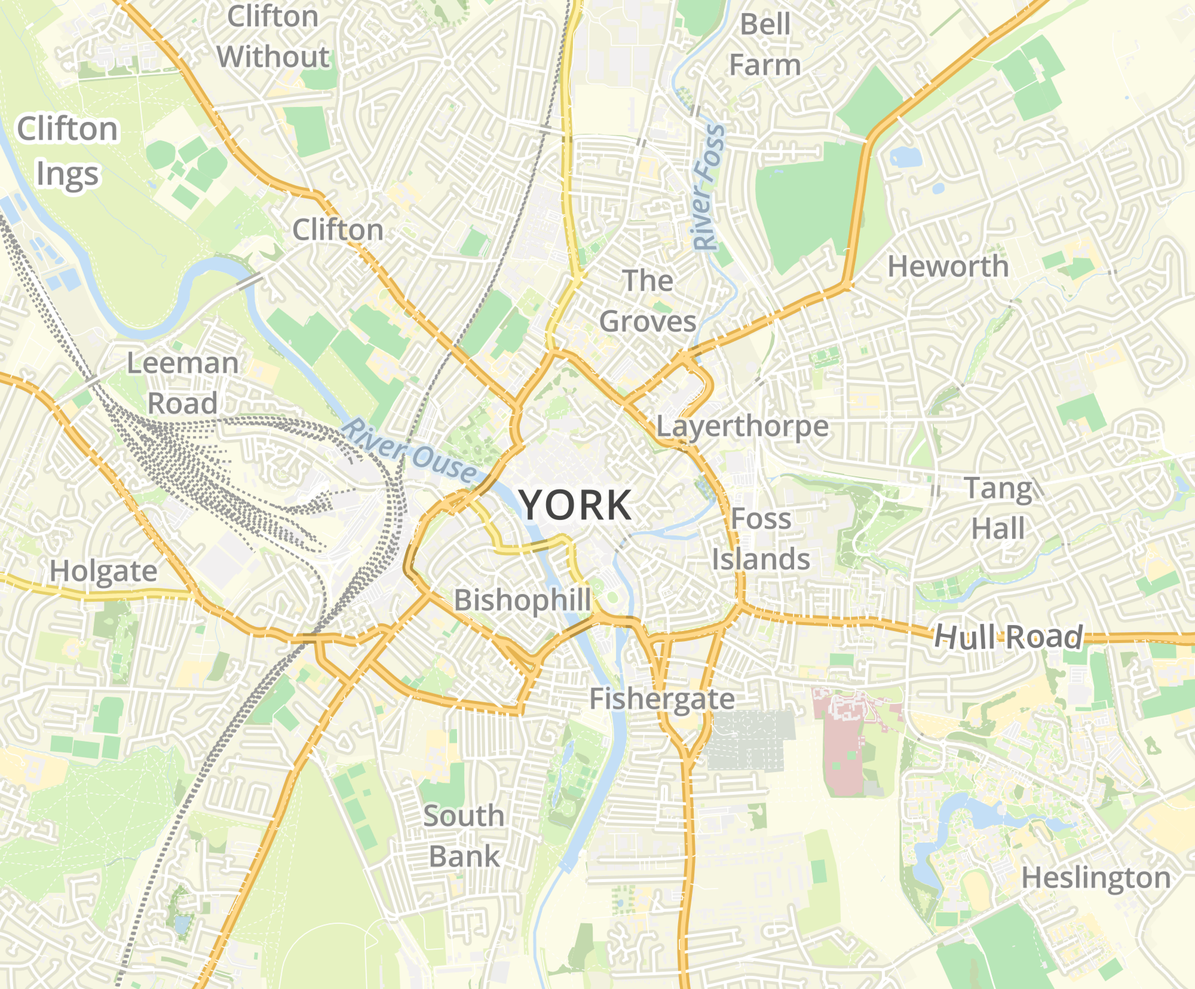
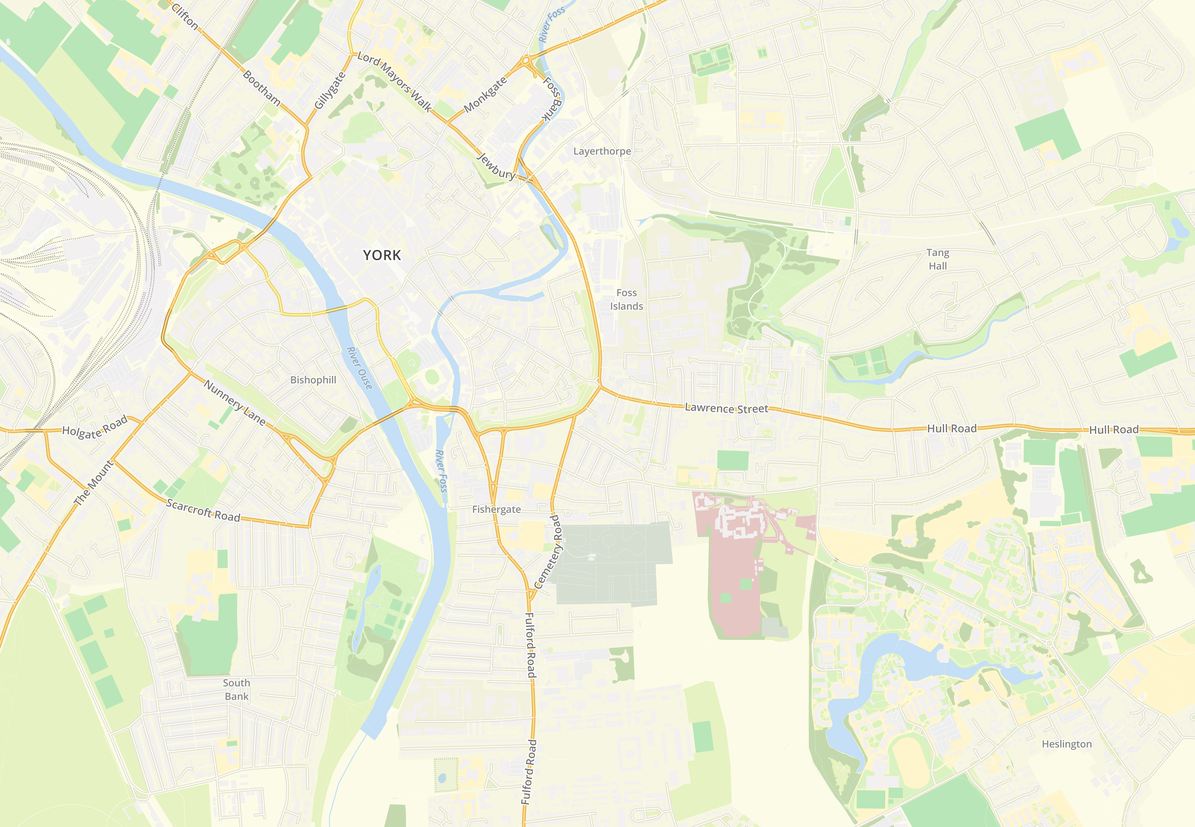
Replace map tiles

diff --git a/src/main/java/components/MapView.java b/src/main/java/components/MapView.java
@@ -57,7 +57,6 @@ public class MapView extends ScrollPane {
         tiles.add(new Image(getClass().getResource("/tiles/19.png").toExternalForm()));
         tiles.add(new Image(getClass().getResource("/tiles/20.png").toExternalForm()));
         tiles.add(new Image(getClass().getResource("/tiles/21.png").toExternalForm()));
-        tiles.add(new Image(getClass().getResource("/tiles/22.png").toExternalForm()));
 
         mapView = new ImageView();
         mapView.setImage(tiles.get(level));
@@ -100,6 +99,7 @@ public class MapView extends ScrollPane {
             poi.setScaleX(0.3 / val.doubleValue());
             poi.setScaleY(0.3 / val.doubleValue());
             this.setLevel((int)(4*val.doubleValue() - 1));
+            System.out.println(val.doubleValue());
         });
 
         setScaleValue(scaleValue, 0, 0);
@@ -239,7 +239,7 @@ public class MapView extends ScrollPane {
 
         // Bounded scale value
         setScaleValue(
-                Math.min(1.15, Math.max(0.45, scaleValue * zoomFactor)),
+                Math.min(1.5, Math.max(0.25, scaleValue * zoomFactor)),
                 (valX + adjustment.getX()) / (updatedInnerBounds.getWidth() - viewportBounds.getWidth()),
                 (valY + adjustment.getY()) / (updatedInnerBounds.getHeight() - viewportBounds.getHeight())
         );

diff --git a/src/main/java/Kiosk.java b/src/main/java/Kiosk.java
@@ -36,7 +36,7 @@ public class Kiosk extends Application {
     private StackPane userView;
     private Pane slidePane = new Pane();
     private Pane backgroundPane = new Pane();
-    private Slider scaleSlider = new Slider(0.45, 1.15, 1);
+    private Slider scaleSlider = new Slider(0.25, 1.5, 1);
     private Button forward;
     private Button back;
 
